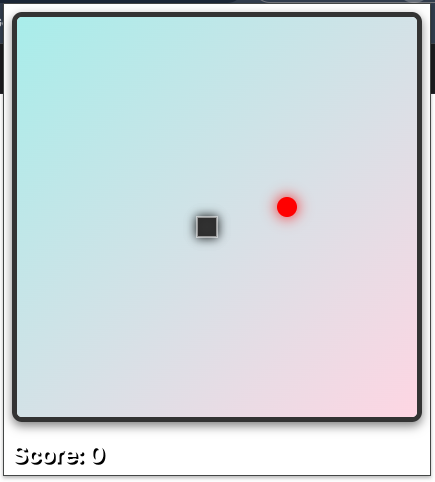
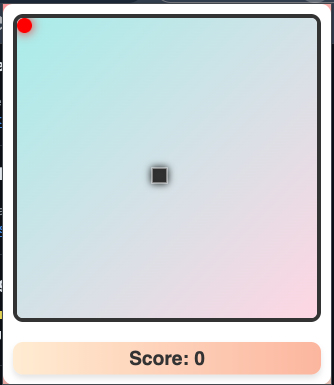
1

Changed region(s): [[0.0, 0.0, 1.0, 1.0], [0.4192, 0.4052, 0.509, 0.5299], [0.5988, 0.374, 0.7186, 0.4675]]

diff --git a/style.css b/style.css
@@ -1,0 +1,69 @@
+/* General body styling */
+body {
+  margin: 0;
+  font-family: "Poppins", sans-serif;
+  background: linear-gradient(135deg, #ff9a9e, #fad0c4);
+  display: flex;
+  justify-content: center;
+  align-items: center;
+  height: 100vh;
+  overflow: hidden;
+}
+
+/* Game container styling */
+#game-container {
+  background: #ffffff;
+  box-shadow: 0 10px 20px rgba(0, 0, 0, 0.2);
+  border-radius: 10px;
+  padding: 20px;
+  text-align: center;
+  display: inline-block; /* Prevent stretching */
+  align-items: center;
+  justify-content: center;
+}
+
+/* Canvas styling */
+#gameCanvas {
+  border: 4px solid #333;
+  border-radius: 10px;
+  display: block;
+  margin-bottom: 20px;
+}
+
+/* Score display styling */
+#score {
+  font-size: 1.5rem;
+  font-weight: bold;
+  color: #333;
+  margin-top: 10px;
+  padding: 5px 20px;
+  border-radius: 10px;
+  background: linear-gradient(to right, #ffecd2, #fcb69f);
+  box-shadow: 0 4px 6px rgba(0, 0, 0, 0.1);
+}
+
+/* Fix vertical stretching */
+html,
+body {
+  width: 100%;
+  height: 100%;
+  display: flex;
+  justify-content: center;
+  align-items: center;
+}
+
+/* Responsive design */
+@media (max-width: 480px) {
+  #game-container {
+    padding: 10px;
+  }
+
+  #gameCanvas {
+    width: 300px;
+    height: 300px;
+  }
+
+  #score {
+    font-size: 1.2rem;
+  }
+}

diff --git a/popup.html b/popup.html
@@ -4,6 +4,7 @@
     <meta charset="UTF-8" />
     <meta name="viewport" content="width=device-width, initial-scale=1.0" />
     <title>Snake Game</title>
+    <link rel="stylesheet" href="style.css" />
   </head>
   <body>
     <div id="game-container">
